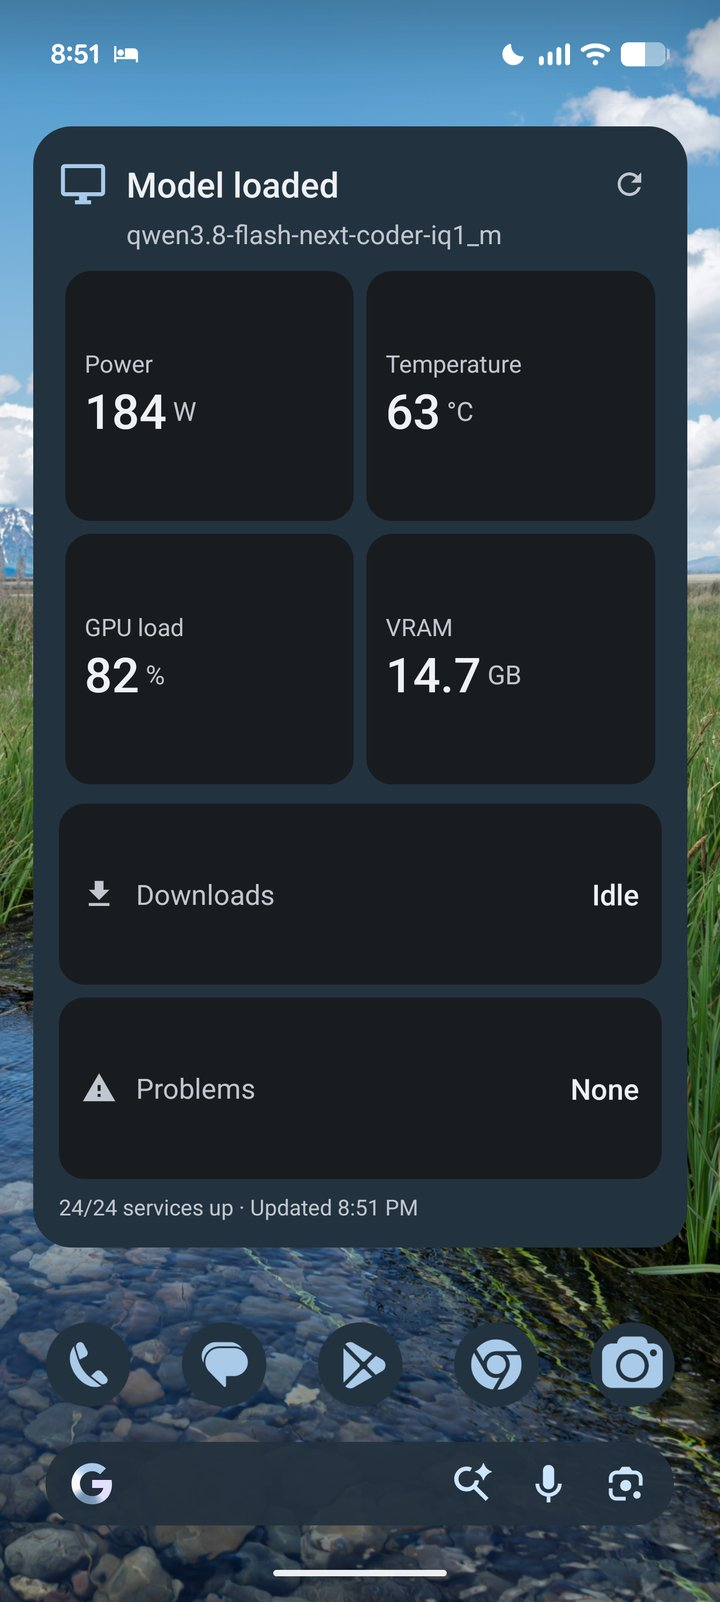
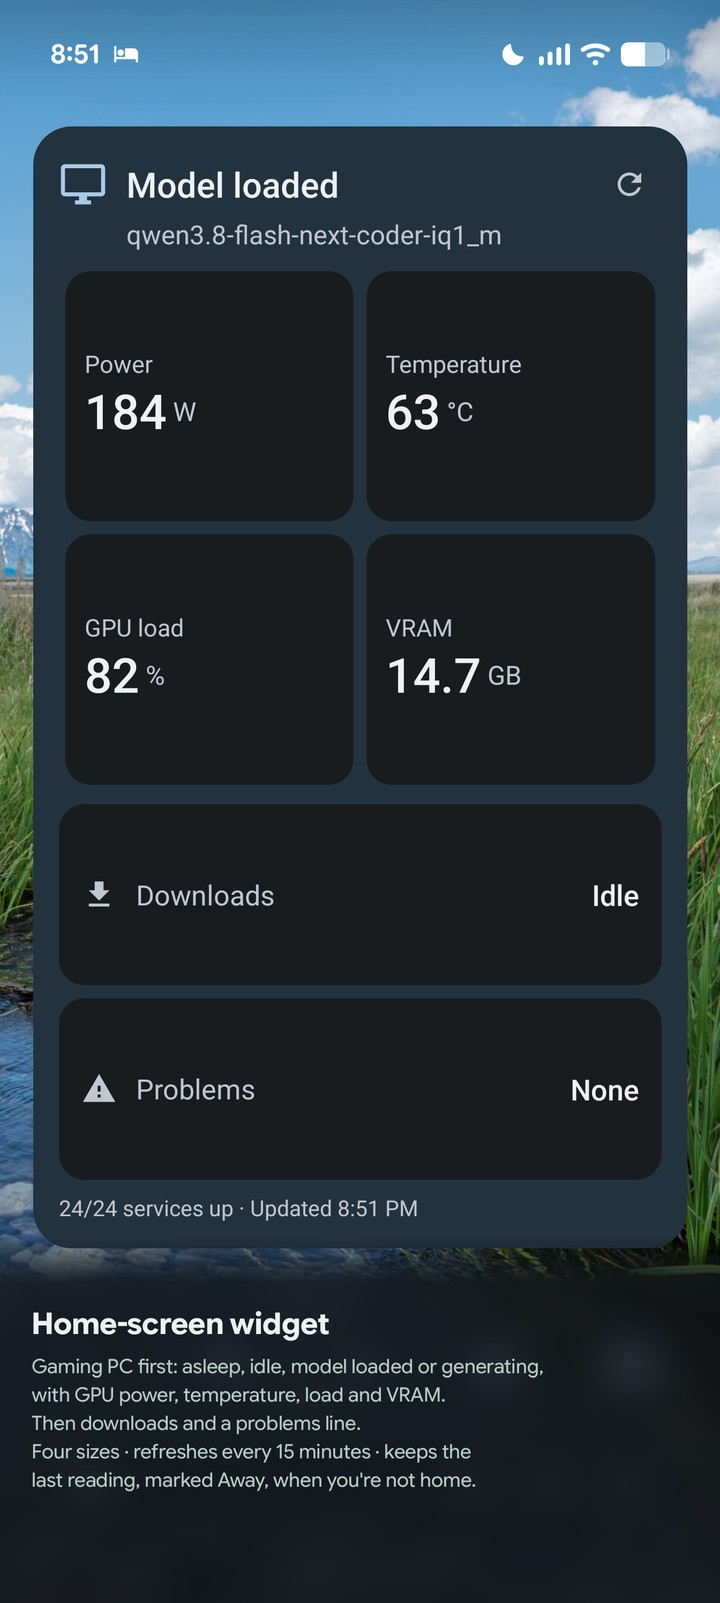
docs: self-explanatory Quick Settings and widget shots in the gallery; README art generators kept in the repo

Changed region(s): [[0.0, 0.7803, 1.0, 1.0]]

diff --git a/tools/readme-art/banners.py b/tools/readme-art/banners.py
@@ -1,0 +1,64 @@
+# Both README/social banners. Usage: banners.py <scratch> <android repo> <dashboard repo> <K>
+import sys
+from PIL import Image, ImageDraw, ImageFont, ImageFilter
+S, R, D, K = sys.argv[1], sys.argv[2], sys.argv[3], int(sys.argv[4])
+def k(v): return int(round(v * K))
+def font(size, wght):
+    f = ImageFont.truetype(f"{S}/gsflex.ttf", k(size))
+    try: f.set_variation_by_axes([min(k(size), 144), wght])
+    except Exception: pass
+    return f
+def background(glow_box):
+    W, H = k(1280), k(640)
+    y = Image.linear_gradient("L").resize((W, H)); x = Image.linear_gradient("L").rotate(90, expand=True).transpose(Image.FLIP_LEFT_RIGHT).resize((W, H))
+    t = Image.blend(x, y, 0.45)
+    bg = Image.composite(Image.new("RGB", (W, H), (31, 77, 69)), Image.new("RGB", (W, H), (12, 30, 28)), t)
+    g = Image.new("L", (W, H), 0); ImageDraw.Draw(g).ellipse(tuple(k(v) for v in glow_box), fill=90)
+    g = g.filter(ImageFilter.GaussianBlur(k(125)))
+    return Image.composite(Image.new("RGB", (W, H), (120, 200, 180)), bg, g.point(lambda v: v // 3))
+def chips(d, x, y, labels, fs=21, h=42):
+    for c in labels:
+        f = font(fs, 600); w = d.textlength(c, font=f) + k(34)
+        d.rounded_rectangle((k(x), k(y), k(x) + w, k(y + h)), radius=k(h / 2), fill=(41, 92, 82), outline=(80, 140, 125), width=max(1, K))
+        d.text((k(x) + k(17), k(y + (h - fs) / 2 - 2)), c, font=f, fill=(220, 240, 234)); x += (w / K) + 11
+def shadow_paste(bg, img, xy, blur=22, off=12, alpha=150):
+    m = k(50); sh = Image.new("RGBA", (img.width + 2 * m, img.height + 2 * m), (0, 0, 0, 0))
+    sh.paste((0, 0, 0, 255), (m, m + k(off)), img.split()[3].point(lambda v: alpha if v else 0))
+    sh = sh.filter(ImageFilter.GaussianBlur(k(blur))); bg.paste(sh, (xy[0] - m, xy[1] - m), sh); bg.paste(img, xy, img)
+def phone(path, h, r_out=34, border=8):
+    im = Image.open(path).convert("RGB"); w = int(im.width * k(h) / im.height); im = im.resize((w, k(h)), Image.LANCZOS)
+    fr = Image.new("RGBA", (w + 2 * k(border), k(h) + 2 * k(border)), (0, 0, 0, 0))
+    m = Image.new("L", fr.size, 0); ImageDraw.Draw(m).rounded_rectangle((0, 0, *fr.size), radius=k(r_out), fill=255)
+    fr.paste(Image.new("RGBA", fr.size, (18, 20, 22, 255)), (0, 0), m)
+    sm = Image.new("L", im.size, 0); ImageDraw.Draw(sm).rounded_rectangle((0, 0, *im.size), radius=k(r_out - 8), fill=255)
+    fr.paste(im, (k(border), k(border)), sm); return fr
+# ---- Android banner
+bg = background((700, -200, 1500, 600)); d = ImageDraw.Draw(bg)
+icon = Image.open(f"{R}/assets/icon.png").convert("RGBA").resize((k(132), k(132)), Image.LANCZOS); bg.paste(icon, (k(72), k(96)), icon)
+d.text((k(72), k(250)), "Homelab", font=font(96, 700), fill=(240, 247, 244))
+d.text((k(76), k(380)), "Android companion for the", font=font(32, 500), fill=(198, 226, 218))
+d.text((k(76), k(422)), "Homelab Command Center", font=font(32, 500), fill=(198, 226, 218))
+chips(d, 76, 482, ["Quick Settings", "Widget", "Alerts", "Local AI"])
+O = f"{S}/orig"
+for p, h, xy in [(f"{O}/ai.png", 470, (782, 128)), (f"{O}/widget.png", 446, (1020, 156)), (f"{O}/overview.png", 520, (900, 70))]:
+    shadow_paste(bg, phone(p, h), (k(xy[0]), k(xy[1])), alpha=150)
+bg.save(f"{R}/screenshots/" + ("social-preview.png" if K == 1 else "banner@2x.png"), optimize=True); print("android", bg.size)
+# ---- Dashboard banner
+bg = background((650, -250, 1550, 650)); d = ImageDraw.Draw(bg)
+logo = Image.open(f"{S}/banner/dash-logo-big.png").convert("RGBA").resize((k(120), k(120)), Image.LANCZOS); bg.paste(logo, (k(64), k(100)), logo)
+d.text((k(64), k(244)), "Homelab", font=font(58, 700), fill=(240, 247, 244))
+d.text((k(64), k(316)), "Command Center", font=font(58, 700), fill=(240, 247, 244))
+d.text((k(66), k(414)), "One live dashboard for Proxmox,", font=font(26, 500), fill=(198, 226, 218))
+d.text((k(66), k(450)), "Unraid, DNS, backups and local AI", font=font(26, 500), fill=(198, 226, 218))
+chips(d, 68, 512, ["Real-time", "Local AI", "Alerts", "Material 3"], fs=20, h=40)
+shot = Image.open(f"{D}/showcase/overview.png").convert("RGB"); sw = k(600); shh = int(shot.height * sw / shot.width); shot = shot.resize((sw, shh), Image.LANCZOS)
+bar = k(30); win = Image.new("RGBA", (sw, shh + bar), (0, 0, 0, 0))
+m = Image.new("L", win.size, 0); ImageDraw.Draw(m).rounded_rectangle((0, 0, *win.size), radius=k(14), fill=255)
+body = Image.new("RGBA", win.size, (30, 36, 35, 255)); body.paste(shot, (0, bar)); win.paste(body, (0, 0), m)
+wd = ImageDraw.Draw(win)
+for i, c in enumerate([(237, 106, 94), (245, 191, 79), (98, 197, 84)]): wd.ellipse((k(14 + i * 20), k(10), k(26 + i * 20), k(22)), fill=c)
+wd.rounded_rectangle((k(120), k(7), k(420), k(24)), radius=k(8), fill=(48, 56, 54)); wd.text((k(134), k(8)), "homelab.lan", font=font(12, 500), fill=(170, 190, 185))
+shadow_paste(bg, win, (k(636), k(116)), blur=24, off=14)
+ph = Image.open(f"{D}/showcase/phone.png").convert("RGB")
+shadow_paste(bg, phone(f"{D}/showcase/phone.png", 380, r_out=30, border=7), (k(1072), k(222)), blur=20, alpha=170)
+bg.save(f"{D}/showcase/" + ("banner.png" if K == 1 else "banner@2x.png"), optimize=True); print("dashboard", bg.size)

diff --git a/tools/readme-art/qs.py b/tools/readme-art/qs.py
@@ -1,0 +1,38 @@
+import sys
+from PIL import Image, ImageDraw, ImageFont, ImageFilter
+S, src = sys.argv[1], sys.argv[2]
+im = Image.open(src).convert("RGB"); W, H = im.size; k = W / 898  # screenshot shown to me at 898 wide
+def font(size, wght):
+    f = ImageFont.truetype(f"{S}/gsflex.ttf", int(size)); 
+    try: f.set_variation_by_axes([min(int(size), 144), wght])
+    except Exception: pass
+    return f
+out = im.copy()
+cut = int(690 * k)                       # keep status, clock, brightness and the tile row
+# below the tiles: darken the blurred wallpaper into a calm panel
+panel = im.crop((0, cut, W, H)).filter(ImageFilter.GaussianBlur(30))
+panel = Image.blend(panel, Image.new("RGB", panel.size, (16, 20, 24)), 0.78); out.paste(panel, (0, cut))
+fh = int(140 * k); top = im.crop((0, cut - fh, W, cut + fh)).convert("RGB")
+target = Image.blend(im.crop((0, cut - fh, W, cut + fh)).filter(ImageFilter.GaussianBlur(30)), Image.new("RGB", (W, 2 * fh), (16, 20, 24)), 0.78)
+mask = Image.linear_gradient("L").resize((W, 2 * fh))
+out.paste(Image.composite(target, top, mask), (0, cut - fh))
+d = ImageDraw.Draw(out)
+tiles = [(32, 228, "Gaming PC", "Lit while the PC is on.", "Tap to wake it."),
+         (245, 440, "AI engine", "Shows what's loaded on the GPU.", "Tap to load Strata or free the GPU."),
+         (457, 652, "Snooze alerts", "Lit while alerts are snoozed.", "Tap to snooze them for 2 hours."),
+         (669, 865, "DNS blocking", "Lit while Pi-hole is blocking.", "Tap to pause it for 5 minutes.")]
+y = cut + int(170 * k)
+d.text((int(32 * k), y), "Homelab Quick Settings tiles", font=font(40 * k, 700), fill=(236, 244, 242)); y += int(78 * k)
+for x0, x1, name, l1, l2 in tiles:
+    tile = im.crop((int(x0 * k), int(497 * k), int(x1 * k), int(640 * k)))
+    tw = int(150 * k); th = int(tile.height * tw / tile.width); tile = tile.resize((tw, th), Image.LANCZOS)
+    m = Image.new("L", tile.size, 0); ImageDraw.Draw(m).rounded_rectangle((0, 0, *tile.size), radius=int(30 * k), fill=255)
+    out.paste(tile, (int(32 * k), y), m)
+    tx = int(32 * k) + tw + int(28 * k)
+    d.text((tx, y + int(6 * k)), name, font=font(34 * k, 650), fill=(236, 244, 242))
+    d.text((tx, y + int(52 * k)), l1, font=font(25 * k, 450), fill=(180, 200, 196))
+    d.text((tx, y + int(84 * k)), l2, font=font(25 * k, 450), fill=(180, 200, 196))
+    y += th + int(54 * k)
+d.text((int(32 * k), y + int(10 * k)), "Every tile shows the live state when the panel opens", font=font(23 * k, 450), fill=(140, 164, 160))
+d.text((int(32 * k), y + int(44 * k)), "and asks you to unlock first on the lock screen.", font=font(23 * k, 450), fill=(140, 164, 160))
+out.save(sys.argv[3]); print(out.size, "legend ends at", y + int(80 * k), "of", H)

diff --git a/tools/readme-art/gallery.py b/tools/readme-art/gallery.py
@@ -1,0 +1,32 @@
+import sys
+from PIL import Image, ImageDraw, ImageFilter, ImageFont
+S, R = sys.argv[1], sys.argv[2]
+names = [("overview.png","Overview"),("ai.png","Local AI"),("storage.png","Storage"),
+         ("infra.png","Infrastructure"),("quick-settings.png","Quick Settings"),("widget-annotated.png","Widget")]
+def font(size, wght):
+    f = ImageFont.truetype(f"{S}/gsflex.ttf", size)
+    try: f.set_variation_by_axes([min(size,144), wght])
+    except Exception: pass
+    return f
+pw, ph = 1344, 2992; gap, pad, cap = 192, 160, 220
+cols, rows = 3, 2
+W = pad*2 + cols*(pw+56) + (cols-1)*gap; H = pad*2 + rows*(ph+16+cap) + (rows-1)*80
+canvas = Image.new("RGBA", (W, H), (0,0,0,0))
+for i,(f,label) in enumerate(names):
+    c, r = i % cols, i // cols
+    x = pad + c*(pw+56+gap); y = pad + r*(ph+16+cap+80)
+    im = Image.open(f"{S}/orig/{f}").convert("RGB").resize((pw, ph), Image.LANCZOS)
+    fr = Image.new("RGBA", (pw+56, ph+56), (0,0,0,0))
+    m = Image.new("L", fr.size, 0); ImageDraw.Draw(m).rounded_rectangle((0,0,*fr.size), radius=148, fill=255)
+    fr.paste(Image.new("RGBA", fr.size, (22,24,26,255)), (0,0), m)
+    sm = Image.new("L", (pw,ph), 0); ImageDraw.Draw(sm).rounded_rectangle((0,0,pw,ph), radius=120, fill=255)
+    fr.paste(im, (28,28), sm)
+    sh = Image.new("RGBA", (fr.width+160, fr.height+160), (0,0,0,0))
+    sh.paste((0,0,0,110), (80,124), fr.split()[3]); sh = sh.filter(ImageFilter.GaussianBlur(60))
+    canvas.alpha_composite(sh, (x-80, y-80)); canvas.alpha_composite(fr, (x, y))
+    d = ImageDraw.Draw(canvas); f2 = font(100, 600); tw = d.textlength(label, font=f2)
+    # caption pill readable on both light and dark GitHub themes
+    px0 = x + (pw+56-tw)/2 - 20
+    d.rounded_rectangle((px0, y+ph+100, px0+tw+120, y+ph+100+152), radius=76, fill=(31,77,69,255))
+    d.text((px0+60, y+ph+120), label, font=f2, fill=(236,246,242))
+canvas.save(f"{R}/screenshots/gallery.png", optimize=True, compress_level=9); print(canvas.size)

diff --git a/tools/readme-art/widget.py b/tools/readme-art/widget.py
@@ -1,0 +1,25 @@
+import sys
+from PIL import Image, ImageDraw, ImageFont, ImageFilter
+S, src, dst = sys.argv[1], sys.argv[2], sys.argv[3]
+im = Image.open(src).convert("RGB"); W, H = im.size; k = W / 898
+def font(size, wght):
+    f = ImageFont.truetype(f"{S}/gsflex.ttf", int(size))
+    try: f.set_variation_by_axes([min(int(size), 144), wght])
+    except Exception: pass
+    return f
+out = im.copy(); cut = int(1600 * k)          # keep status bar and the whole widget, replace the dock and search bar
+fh = int(60 * k)
+panel_src = im.crop((0, cut - fh, W, H)).filter(ImageFilter.GaussianBlur(34))
+panel = Image.blend(panel_src, Image.new("RGB", panel_src.size, (16, 20, 24)), 0.82)
+mask = Image.new("L", panel.size, 255); md = ImageDraw.Draw(mask)
+for y in range(fh): md.line((0, y, W, y), fill=int(255 * y / fh))
+out.paste(panel, (0, cut - fh), mask)
+d = ImageDraw.Draw(out); x = int(40 * k); y = cut + int(28 * k)
+d.text((x, y), "Home-screen widget", font=font(38 * k, 700), fill=(236, 244, 242)); y += int(62 * k)
+for line in ["Gaming PC first: asleep, idle, model loaded or generating,",
+             "with GPU power, temperature, load and VRAM.",
+             "Then downloads and a problems line.",
+             "Four sizes · refreshes every 15 minutes · keeps the",
+             "last reading, marked Away, when you're not home."]:
+    d.text((x, y), line, font=font(25 * k, 450), fill=(185, 204, 200)); y += int(36 * k)
+out.save(dst); print(out.size, "text ends", y, "of", H)

diff --git a/tools/readme-art/README.md b/tools/readme-art/README.md
@@ -1,0 +1,13 @@
+# README artwork
+
+Generators for the banner, the screenshot gallery and the annotated Quick Settings / widget shots.
+`sources/` holds the full-size phone screenshots (Pixel, Android 17). Requires Python 3 with Pillow and the
+Google Sans Flex font converted to TTF (`gsflex.ttf`, from the dashboard's `fonts/` woff2 via fontTools).
+
+```sh
+W=/tmp/readme-art; mkdir -p $W/orig $W/banner && cp sources/* $W/orig/   # scripts read <work>/orig and <work>/gsflex.ttf
+python3 qs.py $W sources/quick-settings-raw.png $W/orig/quick-settings.png
+python3 widget.py $W sources/widget.png $W/orig/widget-annotated.png
+python3 gallery.py $W ../..                          # screenshots/gallery.png at native resolution
+python3 banners.py $W ../.. <dashboard repo> 1        # 1280x640 social previews; 2 = README banners
+```
